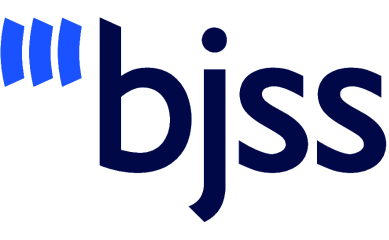
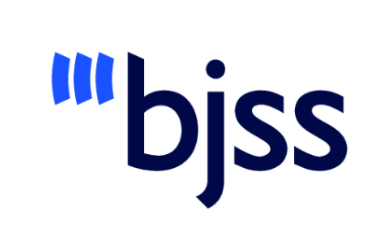
Add BJSS as a Gold Sponsor

Changed region(s): [[0.0, 0.0583, 1.0, 0.9333]]

diff --git a/components/companies/CompanyGrid.js b/components/companies/CompanyGrid.js
@@ -10,7 +10,7 @@ export default function CompanyGrid() {
   return (
     <div>
       <CompanyDetails />
-      <div className="center">
+      <div className="company-container center">
         {companiesList &&
           companiesList.map((company, index) => (
             <div key={index}>

diff --git a/data/sponsors/gold.js b/data/sponsors/gold.js
@@ -9,6 +9,12 @@ const gold = [
     link: 'https://careers.motorpoint.co.uk/',
     description: motorpointdesc,
   },
+  {
+    id: 2,
+    name: 'BJSS',
+    image: '/static/sponsors/BJSS.png',
+    link: 'https://www.bjss.com/careers',
+  },
 ];
 
 export default gold;
